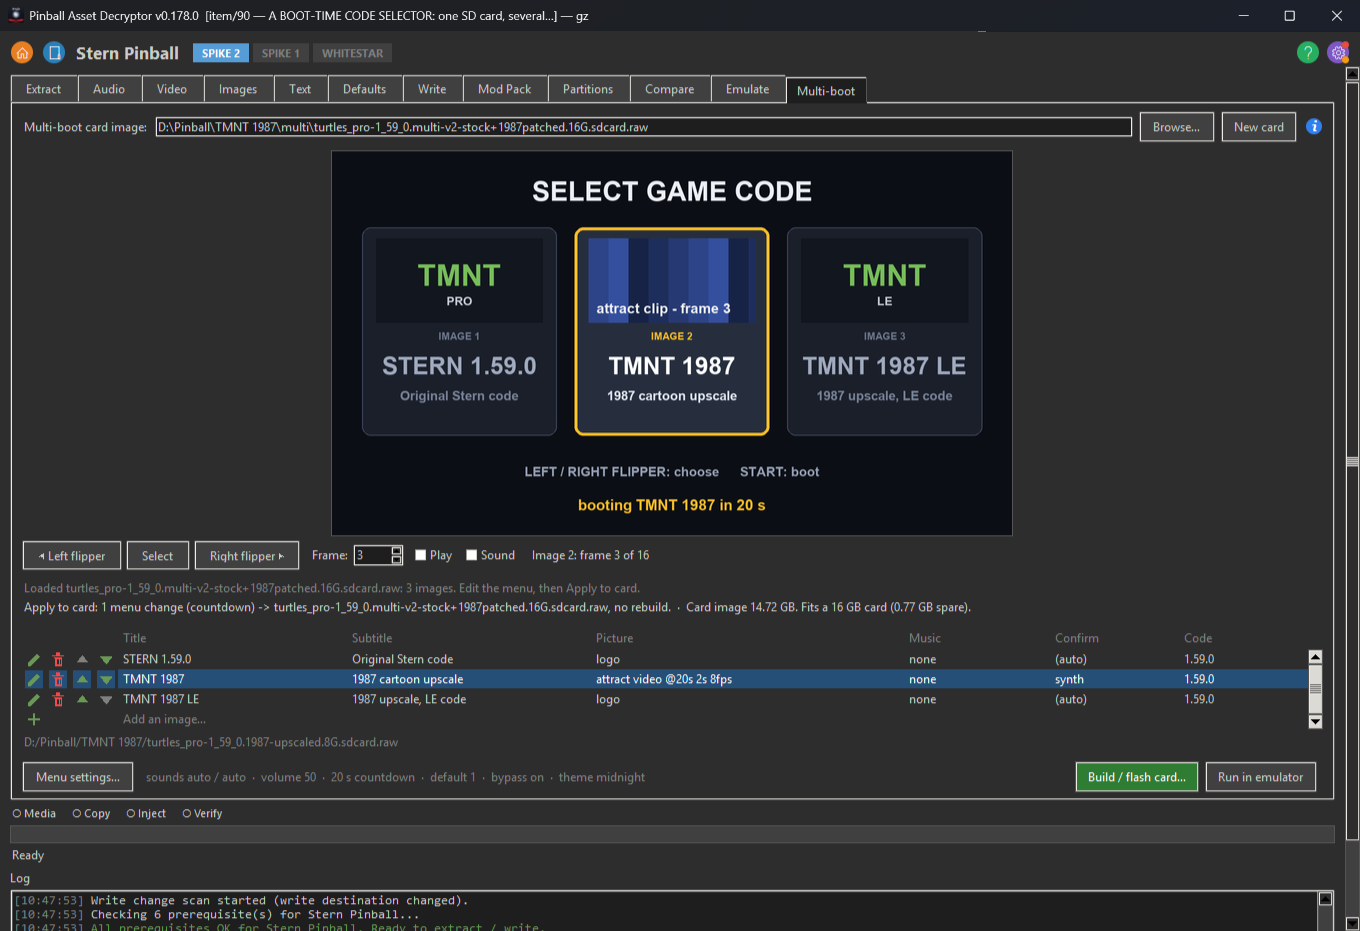
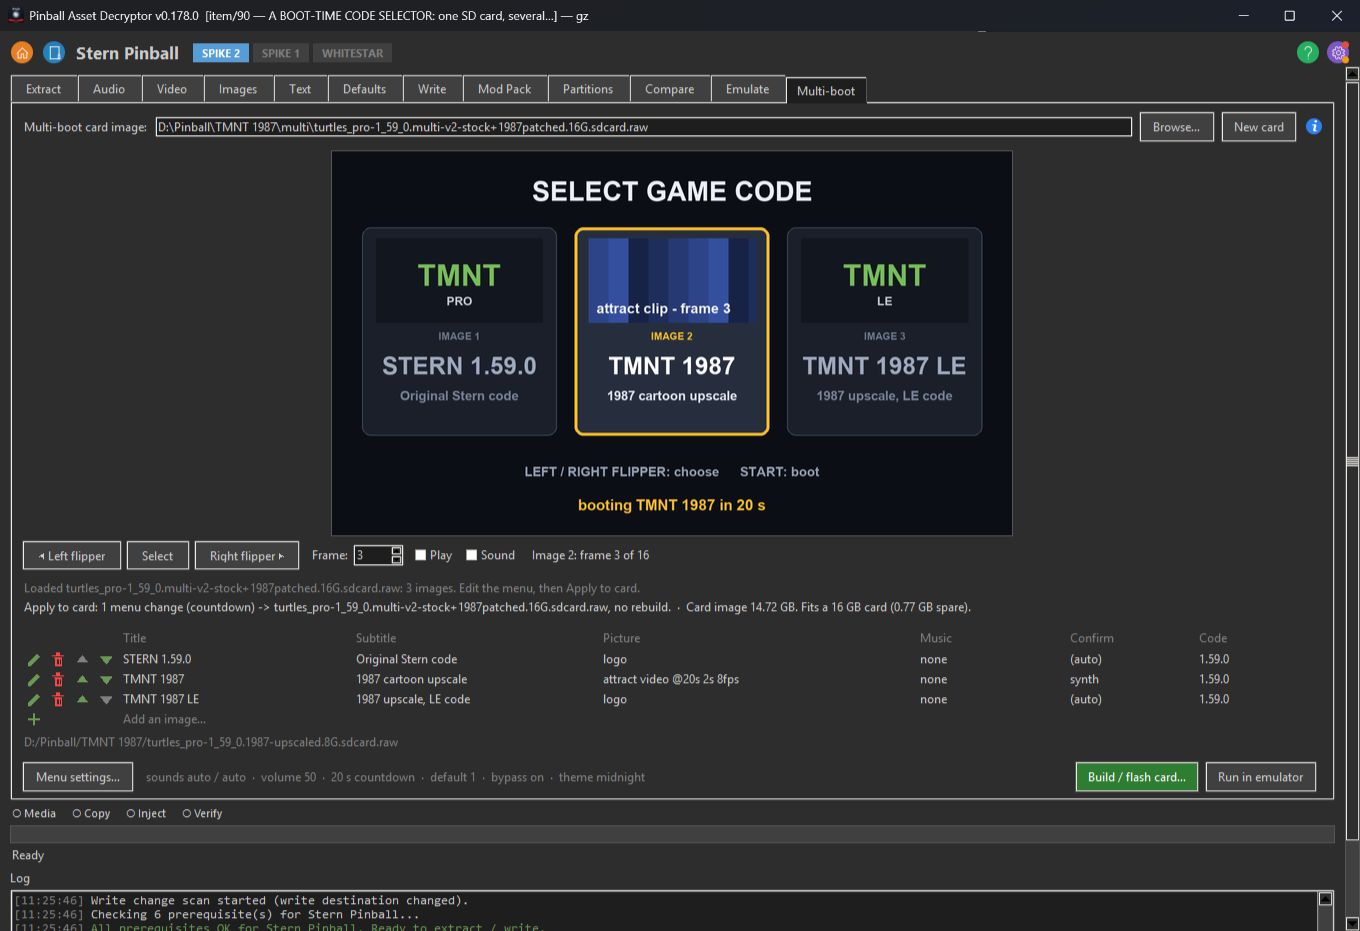
Item 90: bypass always on, no Advanced, cleaner table and video options
A batch of Multi-boot tab cleanups David asked for:

- BYPASS IS NOT A CHOICE ("why is this even an option? it should always be
  on").  The "Bypass game validation" tick is gone from Menu settings;
  _bypass_var is pinned True and re-pinned by load_inspect / restore_state,
  so an image loaded unpatched is patched on the next Update (bypass =
  form.bypass AND _armed still runs the step).  The machinery is untouched;
  only the tick and the "unticking cannot un-patch a card" line are gone.

- NO "ADVANCED" SECTION ("people are likely to mess it up").  The Selector
  build path is DEFAULT_SELECTOR_DIR, overridable by PAD_MULTIBOOT_SELECTOR;
  Menu settings is 665x580 now (was 829).

- THE IMAGES TABLE HAS NO BLUE HIGHLIGHT AND NO SCROLLBAR ("remove the blue
  highlight and the scrollbar").  Every row sits on the panel background
  (the selection still drives the flippers, the editor and the preview's
  amber card); the scrollbar is gone, the wheel and scrollregion kept for
  the rare card with more images than fit.

- THE VIDEO OPTIONS DROP THE Start / Length / FPS CONTROLS ("misleading...
  just state [the limits]").  A stated note replaces them (a short loop
  from the start, at the video's own frame rate); the _ed_anim_* vars stay
  so a loaded card with an older custom clip still renders, and the bare
  'auto' / '<path>' the tab now sends is what lets selectmedia follow the
  source's rate.

Tests: the three button refs and the bypass/armed fixtures were updated
[…]

Changed region(s): [[0.0, 0.6853, 0.9882, 0.7787], [0.0, 0.9656, 0.0618, 1.0]]

diff --git a/pinball_decryptor/gui/multiboot_tab.py b/pinball_decryptor/gui/multiboot_tab.py
@@ -2639,6 +2639,17 @@ class ImageEditorDialog(_Modal):
     FILETYPES = {"picture": [("Pictures", "*.png *.jpg *.jpeg")],
                  "video": [("Videos", "*.mp4 *.mov *.mkv *.avi *.gif")]}
 
+    #: What a video shows, STATED rather than offered as controls (David:
+    #: "remove the 'start', 'Length' and 'FPS' controls... just state [the
+    #: limits]").  It loops a short slice from the start AT THE VIDEO'S OWN
+    #: FRAME RATE (David: "10fps sucks... make it the original fps"), cut to
+    #: about a second so it stays smooth within the menu's frame budget. Any
+    #: common video works - it is re-encoded - so there is no codec to get
+    #: right either.
+    CLIP_NOTE = ("Shown as a short loop from the start, at the video's own "
+                 "frame rate (about a second, kept smooth). Any common video "
+                 "works - it is re-encoded.")
+
     def __init__(self, panel, index, row):
         _Modal.__init__(
             self, panel._parent,
@@ -2686,24 +2697,19 @@ class ImageEditorDialog(_Modal):
                     row=r, column=2, sticky=tk.W, padx=(4, 0), pady=3)
             r += 1
             if kind == "video":
-                # The clip fields: under the two videos they serve, live
-                # for either.
-                ttk.Label(g, text="Clip:").grid(
-                    row=r, column=0, sticky=tk.E, pady=3, padx=(0, 10))
-                clip = ttk.Frame(g)
-                clip.grid(row=r, column=1, columnspan=2, sticky=tk.W,
-                          pady=3)
-                for label, var, width in (
-                        ("Start (s):", panel._ed_anim_start, 6),
-                        ("Length (s):", panel._ed_anim_seconds, 5),
-                        ("FPS:", panel._ed_anim_fps, 4)):
-                    ttk.Label(clip, text=label).pack(
-                        side=tk.LEFT,
-                        padx=(0 if not panel._clip_widgets else 10, 4))
-                    sp = ttk.Spinbox(clip, from_=0, to=36000, width=width,
-                                     textvariable=var)
-                    sp.pack(side=tk.LEFT)
-                    panel._clip_widgets.append(sp)
+                # NO Start / Length / FPS CONTROLS (David: "remove the
+                # 'start', 'Length' and 'FPS' controls here since they are
+                # misleading. We obviously have limits on what we show here,
+                # so just state them instead").  A boot-menu clip is a short
+                # loop drawn frame by frame, so it is a fixed slice at a
+                # fixed rate - the numbers were a request the renderer then
+                # clamped anyway - and it is STATED, not offered.  The
+                # ``_ed_anim_*`` vars stay (a card loaded with an older
+                # custom clip keeps its own values, and the render reads
+                # them), they are simply not editable here any more.
+                ttk.Label(g, foreground=th["gray"], wraplength=440,
+                          justify=tk.LEFT, text=self.CLIP_NOTE).grid(
+                    row=r, column=1, columnspan=2, sticky=tk.W, pady=(0, 3))
                 r += 1
         names = [val for what, val in on_card_fields(row)
                  if what in ("art", "animation")]
@@ -2715,9 +2721,8 @@ class ImageEditorDialog(_Modal):
         ttk.Label(box, foreground=th["gray"], wraplength=500,
                   justify=tk.LEFT,
                   text="A video is the still too: the frame it starts on "
-                       "shows while the image is not highlighted. Clip "
-                       "fields left blank mean from 0 s, 3 s long, 10 "
-                       "fps.").pack(anchor=tk.W, padx=8, pady=(0, 6))
+                       "shows while the image is not highlighted.").pack(
+            anchor=tk.W, padx=8, pady=(0, 6))
 
         soundbox = ttk.LabelFrame(b, text="Sounds")
         soundbox.pack(fill=tk.X, pady=(10, 0))
@@ -2856,29 +2861,18 @@ class MenuSettingsDialog(_Modal):
         ttk.Label(di, text="highlighted at power-up (the last choice wins "
                            "once one was made)",
                   foreground=th["gray"]).pack(side=tk.LEFT, padx=(6, 0))
-        byp = ttk.Frame(g2)
-        byp.grid(row=2, column=0, columnspan=2, sticky=tk.W, pady=(6, 0))
-        panel._bypass_chk = ttk.Checkbutton(
-            byp, text="Bypass game validation on every image",
-            variable=panel._bypass_var)
-        panel._bypass_chk.pack(side=tk.LEFT)
-        panel._bypass_badge = panel._info_badge(byp, panel.BYPASS_TIP)
-        panel._bypass_badge.pack(side=tk.LEFT, padx=(6, 0))
         g2.columnconfigure(1, weight=1)
-
-        adv = ttk.LabelFrame(b, text="Advanced")
-        adv.pack(fill=tk.X, pady=(10, 0))
-        g3 = ttk.Frame(adv)
-        g3.pack(fill=tk.X, padx=8, pady=6)
-        ttk.Label(g3, text="Selector build:", width=15).grid(
-            row=0, column=0, sticky=tk.W, pady=3)
-        ttk.Entry(g3, textvariable=panel._selector_var, width=40).grid(
-            row=0, column=1, sticky=tk.EW, pady=3)
-        ttk.Label(g3, foreground=th["gray"], wraplength=430, justify=tk.LEFT,
-                  text="WSL path of the built selector (the rig installs it "
-                       "there on the first Boot-selector run)").grid(
-            row=1, column=1, sticky=tk.W)
-        g3.columnconfigure(1, weight=1)
+        # NO 'Bypass game validation' TICK (David: "why is this even an
+        # option? it should always be on") - an unpatched image shows the
+        # validation error on the machine, so the bypass is not a choice.
+        # ``_bypass_var`` stays pinned True (see MultibootPanel.__init__) and
+        # the machinery behind it - bypass_commands, bypass_state, Apply's
+        # bypass step - is untouched; only the tick is gone.
+        #
+        # NO 'Advanced' SECTION EITHER (David: "people are likely to mess it
+        # up").  The Selector build path is DEFAULT_SELECTOR_DIR, overridable
+        # by the PAD_MULTIBOOT_SELECTOR env var (see MultibootPanel.__init__)
+        # rather than an entry box nobody but the rig should touch.
 
 
 class BuildFlashDialog(_Modal):
@@ -3185,8 +3179,20 @@ class MultibootPanel:
         self._volume_var = tk.StringVar(value="50")
         self._timeout_var = tk.StringVar(value="15")
         self._default_var = tk.StringVar(value="0")
+        # THE VALIDATOR BYPASS IS ALWAYS ON (David: "it should always be
+        # on") - an unpatched image fails the game's own validator on the
+        # machine.  The var stays, so every diff, command line and test
+        # still reads one truth, but it is pinned True: nothing in the UI
+        # unticks it, and the loaders below (load_inspect / restore_state)
+        # re-pin it after they run so a card saved unpatched, or an older
+        # anchor with bypass:false, is brought up to patched.
         self._bypass_var = tk.BooleanVar(value=True)
-        self._selector_var = tk.StringVar(value=DEFAULT_SELECTOR_DIR)
+        # THE SELECTOR BUILD PATH is no longer an entry box (David: the
+        # Advanced section - "people are likely to mess it up").  It is the
+        # default, overridable only by an env var for the rig.
+        self._selector_var = tk.StringVar(
+            value=os.environ.get("PAD_MULTIBOOT_SELECTOR")
+            or DEFAULT_SELECTOR_DIR)
         #: The menu's colours: the theme's name, what the picker shows for
         #: it, and one var per colour role - the "make your own" grid, which
         #: also shows a chosen built-in's colours (and is what a custom
@@ -5395,7 +5401,7 @@ class MultibootPanel:
             self._volume_var.set(str(menu["volume"]))
             self._timeout_var.set(str(menu["timeout"]))
             self._default_var.set(str(menu["default"]))
-            self._bypass_var.set(menu["bypass"])
+            self._bypass_var.set(True)      # always on (David); see __init__
             self._theme_var.set(menu["theme"])
             # a built-in comes back as the file spells it today; a custom
             # theme as it was saved, the default under any role it lacks
@@ -5846,7 +5852,11 @@ class MultibootPanel:
             self._volume_var.set(str(int(form.volume)))
             self._timeout_var.set(str(int(form.timeout)))
             self._default_var.set(str(int(form.default)))
-            self._bypass_var.set(bool(form.bypass))
+            # The LIVE form's bypass is always on (David); the card's own
+            # state stays in _loaded_form (form_from_inspect above), so an
+            # image loaded unpatched shows a 'bypass' change and Update
+            # patches it.
+            self._bypass_var.set(True)
             self._theme_var.set(form.theme)
             self._seed_colors(form.colors if form.theme == CUSTOM_THEME
                               else theme_colors(form.theme) or {})
@@ -6093,18 +6103,10 @@ class MultibootPanel:
         kind, text, tone, can_read = card_path_state(
             field, self._facts_now(field), self._rows, self._loaded_card,
             menu, rebuild)
-        editing = kind == "loaded"
-        # THE BASELINE IS TESTED, NOT ASSUMED.  ``editing`` comes from
-        # card_path_state, which decides it from _loaded_card and the path
-        # alone and has never seen _loaded_form - so the pair (a card set,
-        # its baseline not yet) reached ``.bypass`` on None.  It is a narrow
-        # window today (inside load_inspect, which pumps no loop), but the
-        # guard the old expression carried is cheap and this line is called
-        # after every keystroke.
-        if (editing and self._loaded_form is not None
-                and self._loaded_form.bypass and not self.form().bypass):
-            text += ("  (Unticking the bypass cannot un-patch a card - "
-                     "build a fresh one for that.)")
+        # (The 'unticking the bypass cannot un-patch a card' note is gone
+        # with the bypass tick itself - the bypass is always on now, so it
+        # can never be untied.  The Apply-vs-Build decision that used to
+        # live here is _write_plan's now, off the same card_path_state.)
         line = "  ·  ".join(p for p in (text, self._plan_text) if p)
         try:
             lbl.configure(text=self._status_line(line), foreground=th[tone])

diff --git a/tests/test_multiboot_tab.py b/tests/test_multiboot_tab.py
@@ -985,12 +985,12 @@ def test_editor_offers_what_the_image_shows_as_one_choice(tmp_path):
         assert sorted(panel._media_entries) == ["picture", "video"]
         assert all(str(w.cget("state")) == "disabled"
                    for w in panel._media_entries.values())
-        assert all(str(w.cget("state")) == "disabled"
-                   for w in panel._clip_widgets)
-        # the attract clip: the clip fields wake, the entries stay asleep
+        # NO clip Start / Length / FPS controls any more (David): the video
+        # options carry only a stated note, and the render still reads the
+        # fixed anim vars (set below to prove the spec is built from them)
+        assert panel._clip_widgets == []
+        # the attract clip: the entries stay asleep, the note states the loop
         panel._ed_media.set("attract")
-        assert all(str(w.cget("state")) == "normal"
-                   for w in panel._clip_widgets)
         assert all(str(w.cget("state")) == "disabled"
                    for w in panel._media_entries.values())
         panel._ed_anim_start.set("20")
@@ -1017,8 +1017,6 @@ def test_editor_offers_what_the_image_shows_as_one_choice(tmp_path):
         panel._ed_media.set("picture")
         assert str(panel._media_entries["picture"].cget("state")) == \
             "normal"
-        assert all(str(w.cget("state")) == "disabled"
-                   for w in panel._clip_widgets)
         panel._ed_picture.set(str(still))
         row = panel.form().images[1]
         assert (row.art, row.anim, row.art_time, row.anim_start) == \
@@ -3367,11 +3365,14 @@ def test_a_sound_poll_does_not_wipe_what_the_strip_was_saying(tmp_path,
 # loading a card back into the form (Load card… / Apply to card)
 # --------------------------------------------------------------------------
 
-def _rich_report(tmp_path, clip=None):
+def _rich_report(tmp_path, clip=None, armed=True):
     """What ``inspect --json`` prints for a v2 card built by this tab: two
     images whose .raw sources are on this machine, art from a source spec
     (one 'auto', one a frame of a video), a clip with its own start / length
-    / fps, no music, and a second tree still waiting for the bypass."""
+    / fps, no music.  *armed* leaves the second tree waiting for the bypass
+    (the card the tool builds is fully patched; ``armed=False`` is that
+    realistic state, which is what :func:`_loaded` uses so a plain load has
+    no pending change - the bypass is always on now)."""
     a, b = _images(tmp_path, 2)
     clip = clip or str(tmp_path / "attract.mov")
     if not os.path.isfile(clip):
@@ -3394,7 +3395,7 @@ def _rich_report(tmp_path, clip=None):
              "art_source": multiboot_tab.wsl(clip) + "@21",
              "anim_source": "auto@20:2:8", "source": multiboot_tab.wsl(b),
              "source_exists": True, "title_dir": "turtles",
-             "bypass": "armed"}],
+             "bypass": "armed" if armed else "bypassed"}],
         "timeout": 20, "default": 1, "volume": 35, "mixer_volume": None,
         "sound_move": "synth", "sound_confirm": "none",
         "font": "/usr/local/codeselect/font.ttf",
@@ -3458,7 +3459,7 @@ def _loaded(tmp_path, report=None, media_json=True):
             f.write("{}")
     root, panel = _panel()
     panel.load_inspect(report if report is not None
-                       else _rich_report(tmp_path), card, media)
+                       else _rich_report(tmp_path, armed=False), card, media)
     return root, panel, card, media
 
 
@@ -4351,7 +4352,9 @@ def test_load_card_runs_inspect_and_fills_every_field(tmp_path, monkeypatch):
         assert panel._default_var.get() == "1"
         assert panel._volume_var.get() == "35"
         assert panel._move_var.get() == "synth"
-        assert panel._bypass_var.get() is False          # image 1 is armed
+        # the LIVE form's bypass is always on now; the card's own state
+        # (image 1 armed) is what _armed tracks, so an Update patches it
+        assert panel._bypass_var.get() is True
         assert panel._armed is True
         assert panel._loaded_card == card
         # the card's own default is the row the load lands on, so the
@@ -4544,23 +4547,23 @@ def test_a_media_change_prepares_into_the_loaded_cards_media_dir(tmp_path):
 
 
 def test_the_bypass_rides_along_while_a_tree_is_still_armed(tmp_path):
-    root, panel, card, _media = _loaded(tmp_path)
+    """The bypass is always on (David: "it should always be on").  The
+    baseline a load takes includes bypass=on, so an armed card shows no
+    'bypass' menu change - but because the tree is still armed, an Update
+    runs the bypass step anyway (bypass = form.bypass AND _armed), so the
+    card is patched whether or not anything else changed."""
+    root, panel, card, _media = _loaded(
+        tmp_path, report=_rich_report(tmp_path, armed=True))
     calls = _recorder(panel)
     try:
-        assert panel._armed is True and panel._bypass_var.get() is False
-        panel._bypass_var.set(True)
-        assert "1 menu change (bypass)" in panel._edit_lbl.cget("text")
+        assert panel._armed is True and panel._bypass_var.get() is True
+        # nothing to un-tick and nothing to set: an Update patches the armed
+        # tree by itself
         assert panel.apply_to_card() is True
         assert [label for label, _ in calls[0]] == [
             "inject", "bypass", "inspect", INSPECT_JSON]
         byp = _tool_words(calls[0][1][1])
         assert byp[1:4] == ["bypass", "--card", multiboot_tab.wsl(card)]
-        # untick it again and the tab says what unticking cannot do
-        panel._bypass_var.set(False)
-        panel._loaded_form = multiboot_tab.replace(panel._loaded_form,
-                                                   bypass=True)
-        panel._update_edit_status()
-        assert "cannot un-patch" in panel._edit_lbl.cget("text")
     finally:
         root.destroy()
 
@@ -5165,7 +5168,7 @@ def test_the_form_survives_a_restart(tmp_path):
         assert panel._rows[1].anim == "auto"
         assert panel._timeout_var.get() == "8"
         assert panel._volume_var.get() == "70"
-        assert panel._bypass_var.get() is False
+        assert panel._bypass_var.get() is True     # always on now (David)
         assert panel.form().out == out
         # OUT OF EDITING MODE, on purpose: the baseline is not restored, so
         # Apply cannot inject a diff computed against a stale one.  One

diff --git a/pinball_decryptor/gui/image_table.py b/pinball_decryptor/gui/image_table.py
@@ -285,10 +285,10 @@ class ImageTable(ttk.Frame):
         self.canvas = tk.Canvas(mid, bd=0, highlightthickness=0,
                                 bg=th["bg"], height=self._min_rows * ROW_PX)
         self.canvas.pack(side=tk.LEFT, fill=tk.BOTH, expand=True)
-        self.scroll = ttk.Scrollbar(mid, orient=tk.VERTICAL,
-                                    command=self.canvas.yview)
-        self.scroll.pack(side=tk.LEFT, fill=tk.Y)
-        self.canvas.configure(yscrollcommand=self.scroll.set)
+        # NO SCROLLBAR (David: "remove... the scrollbar").  Cards run to a
+        # handful of images and the table shows up to max_rows of them; the
+        # rare card with more is reached with the mouse wheel (bound below),
+        # so the scrollregion stays live - there is just no bar drawn for it.
         self.body = tk.Frame(self.canvas, bd=0, highlightthickness=0,
                              bg=th["bg"])
         self._window = self.canvas.create_window((0, 0), window=self.body,
@@ -584,14 +584,17 @@ class ImageTable(ttk.Frame):
             pass
 
     def _repaint(self):
+        # NO SELECTED-ROW HIGHLIGHT (David: "remove the blue highlight").
+        # Every row is on the panel background; the selection still exists
+        # (the flippers, the editor and the preview's amber card all read
+        # it), it is just not painted as a blue bar - a click on any cell
+        # opens that row's editor regardless, so the bar was saying little.
         th = self.colors
+        bg = th["bg"]
         for i, row in enumerate(self._rows):
-            on = i == self._sel
-            bg = th["select_bg"] if on else th["bg"]
-            fg = "#ffffff" if on else th["fg"]
             for cell in row.cells:
                 try:
-                    cell.configure(bg=bg, fg=fg, font=self.font)
+                    cell.configure(bg=bg, fg=th["fg"], font=self.font)
                 except tk.TclError:                     # pragma: no cover
                     pass
             last = len(self._rows) - 1
